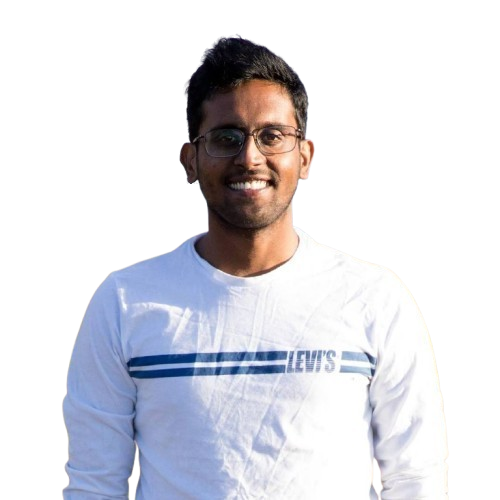
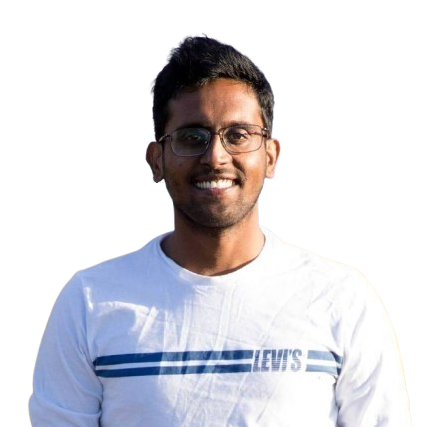
feat: Add new programming committee member and update existing member titles, details, and images.

diff --git a/src/pages/technical-programming-committee.tsx b/src/pages/technical-programming-committee.tsx
@@ -417,12 +417,12 @@ const trackCoChairLevels: SpeakerLevel[] = [
         ),
       },
       {
-        name: "Dr Dinesh Attygalle",
+        name: "Prof. Dinesh Attygalle",
         university: "University of Moratuwa, Sri Lanka",
         image: (
           <StaticImage
-            src="../images/programming-committee/Dr.Dinesh.Attygalle.png"
-            alt="Dr Dinesh Attygalle"
+            src="../images/programming-committee/Prof.Dinesh.Attygalle.png"
+            alt="Prof. Dinesh Attygalle"
             className="w-full h-full"
             objectFit="cover"
           />
@@ -580,7 +580,7 @@ const trackCoChairLevels: SpeakerLevel[] = [
             src="../images/programming-committee/Dr.Wageesha.Manamperi.png"
             alt="Dr. Wageesha Manamperi"
             className="w-full h-full"
-            objectFit="contain"
+            objectFit="cover"
           />
         ),
       },
